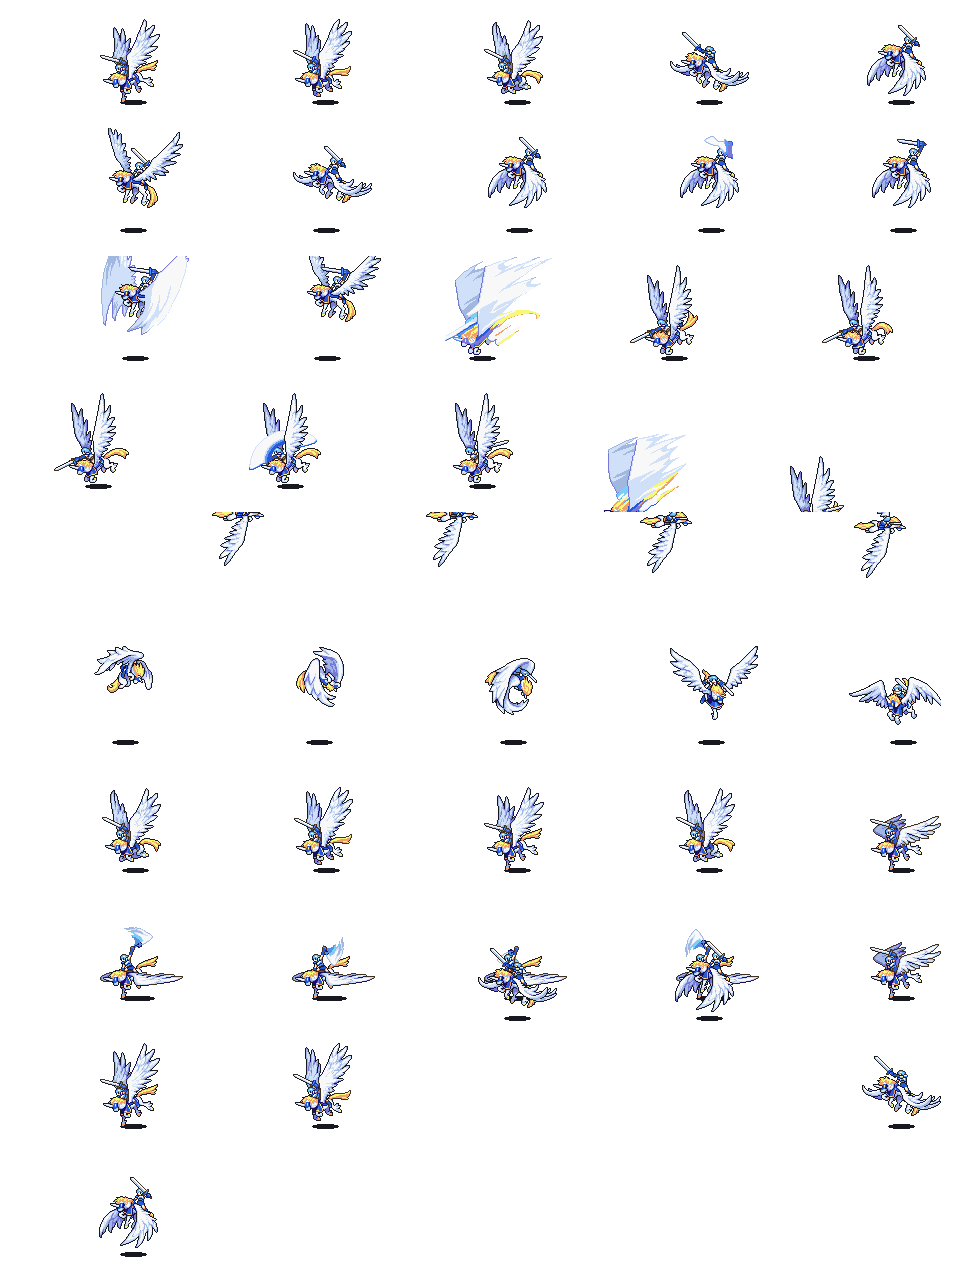
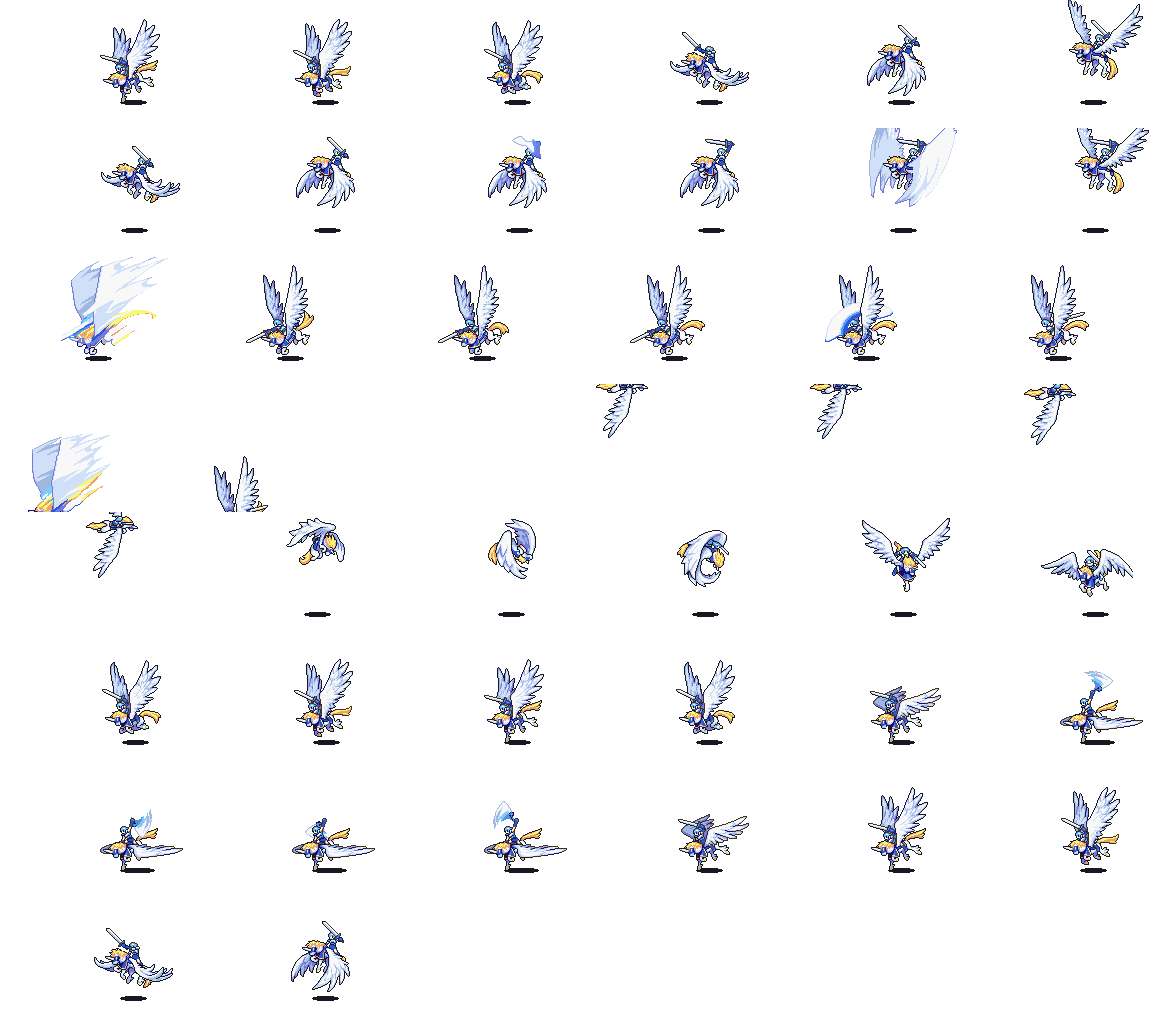
김경학 : 전투 애니메이션 추가

diff --git a/DirectX/GameEngineContents/BattleAnimationUnit.cpp b/DirectX/GameEngineContents/BattleAnimationUnit.cpp
@@ -117,7 +117,7 @@ void BattleAnimationUnit::Start()
 	EffectAnimation->SetAnimationStartEvent("Critical", 9, SetBright1);
 	EffectAnimation->SetAnimationStartEvent("Critical", 14, SetBright0);
 
-	EffectAnimation->CreateAnimation({ "Dodge", "Effect_Hit.png", 8, 8 });
+	EffectAnimation->CreateAnimation({ .AnimationName = "Dodge", .SpriteName = "Effect_Hit.png", .Start = 8, .End = 8, .FrameInter = 0.0f, });
 	EffectAnimation->SetAnimationStartEvent("Dodge", 8, std::bind(&BattleAnimationUnit::Dodge, this));
 
 	EffectAnimation->CreateAnimation({ .AnimationName = "FireHit", .SpriteName = "Effect_Fire.png", .Start = 0, .End = 19, .FrameInter = 0.05f, .Loop = false,});
@@ -205,7 +205,7 @@ std::shared_ptr<SpriteRenderer> BattleAnimationUnit::CreateAnimation(UnitIdentit
 		NewAnim->SetAnimationStartEvent("Attack", 4, std::bind(&BattleAnimationLevel::HitEvent, Level));
 		NewAnim->SetAnimationStartEvent("Attack", 17, std::bind(&BattleAnimationUnit::AttackEnd, this));
 		NewAnim->CreateAnimation({ .AnimationName = "Critical", .SpriteName = "Battle_SainLance.png", .Loop = false,
-			.FrameIndex = {17, 18, 19, 20, 21, 22, 23, 25, 26, 27, 28, 1, 2, 3, 4, 5, 6, 7, 8, 9, 10, 11, 12, 13, 14, 15, 16, 17},
+			.FrameIndex = {0, 18, 19, 20, 21, 22, 23, 25, 26, 27, 28, 1, 2, 3, 4, 5, 6, 7, 8, 9, 10, 11, 12, 13, 14, 15, 16, 17},
 			.FrameTime = {.05f, .05f, .05f, .05f, .05f, .05f, .05f, .05f, .15f, .04f, .2f, .08f, .08f, .08f, .04f, .6f, .04f, .08f, .08f, .08f, .08f, .08f, .08f, .08f, .08f, .08f, .08f, .08f,} });
 		NewAnim->SetAnimationStartEvent("Critical", 4, std::bind(&BattleAnimationLevel::HitEvent, Level));
 		NewAnim->SetAnimationStartEvent("Critical", 17, std::bind(&BattleAnimationUnit::AttackEnd, this));
@@ -226,7 +226,7 @@ std::shared_ptr<SpriteRenderer> BattleAnimationUnit::CreateAnimation(UnitIdentit
 		NewAnim->SetAnimationStartEvent("Attack", 4, std::bind(&BattleAnimationLevel::HitEvent, Level));
 		NewAnim->SetAnimationStartEvent("Attack", 17, std::bind(&BattleAnimationUnit::AttackEnd, this));
 		NewAnim->CreateAnimation({ .AnimationName = "Critical", .SpriteName = "Battle_SainSword.png", .Loop = false,
-			.FrameIndex = {17, 18, 19, 20, 21, 22, 23, 24, 25, 26, 27, 28, 29, 1, 2, 3, 4, 5, 6, 7, 8, 9, 10, 11, 12, 13, 14, 15, 16, 17},
+			.FrameIndex = {0, 18, 19, 20, 21, 22, 23, 24, 25, 26, 27, 28, 29, 1, 2, 3, 4, 5, 6, 7, 8, 9, 10, 11, 12, 13, 14, 15, 16, 17},
 			.FrameTime = {.05f, .05f, .05f, .05f, .05f, .05f, .05f, .05f, .05f, .05f, .15f, .04f, .2f, .08f, .08f, .08f, .04f, .6f, .04f, .08f, .08f, .08f, .08f, .08f, .08f, .08f, .08f, .08f, .08f, .08f,} });
 		NewAnim->SetAnimationStartEvent("Critical", 4, std::bind(&BattleAnimationLevel::HitEvent, Level));
 		NewAnim->SetAnimationStartEvent("Critical", 17, std::bind(&BattleAnimationUnit::AttackEnd, this));
@@ -247,7 +247,7 @@ std::shared_ptr<SpriteRenderer> BattleAnimationUnit::CreateAnimation(UnitIdentit
 		NewAnim->SetAnimationStartEvent("Hit", 4, std::bind(&BattleAnimationLevel::HitEvent, Level));
 		NewAnim->SetAnimationStartEvent("Hit", 17, std::bind(&BattleAnimationUnit::AttackEnd, this));
 		NewAnim->CreateAnimation({ .AnimationName = "Critical", .SpriteName = "Battle_KentLance.png", .Loop = false,
-			.FrameIndex = {17, 18, 19, 20, 21, 22, 23, 25, 26, 27, 28, 1, 2, 3, 4, 5, 6, 7, 8, 9, 10, 11, 12, 13, 14, 15, 16, 17},
+			.FrameIndex = {0, 18, 19, 20, 21, 22, 23, 25, 26, 27, 28, 1, 2, 3, 4, 5, 6, 7, 8, 9, 10, 11, 12, 13, 14, 15, 16, 17},
 			.FrameTime = {.05f, .05f, .05f, .05f, .05f, .05f, .05f, .05f, .15f, .04f, .2f, .08f, .08f, .08f, .04f, .6f, .04f, .08f, .08f, .08f, .08f, .08f, .08f, .08f, .08f, .08f, .08f, .08f,} });
 		NewAnim->SetAnimationStartEvent("Critical", 4, std::bind(&BattleAnimationLevel::HitEvent, Level));
 		NewAnim->SetAnimationStartEvent("Critical", 17, std::bind(&BattleAnimationUnit::AttackEnd, this));
@@ -268,7 +268,7 @@ std::shared_ptr<SpriteRenderer> BattleAnimationUnit::CreateAnimation(UnitIdentit
 		NewAnim->SetAnimationStartEvent("Attack", 4, std::bind(&BattleAnimationLevel::HitEvent, Level));
 		NewAnim->SetAnimationStartEvent("Attack", 17, std::bind(&BattleAnimationUnit::AttackEnd, this));
 		NewAnim->CreateAnimation({ .AnimationName = "Critical", .SpriteName = "Battle_KentSword.png", .Loop = false,
-			.FrameIndex = {17, 18, 19, 20, 21, 22, 23, 24, 25, 26, 27, 28, 29, 1, 2, 3, 4, 5, 6, 7, 8, 9, 10, 11, 12, 13, 14, 15, 16, 17},
+			.FrameIndex = {0, 18, 19, 20, 21, 22, 23, 24, 25, 26, 27, 28, 29, 1, 2, 3, 4, 5, 6, 7, 8, 9, 10, 11, 12, 13, 14, 15, 16, 17},
 			.FrameTime = {.05f, .05f, .05f, .05f, .05f, .05f, .05f, .05f, .05f, .05f, .15f, .04f, .2f, .08f, .08f, .08f, .04f, .6f, .04f, .08f, .08f, .08f, .08f, .08f, .08f, .08f, .08f, .08f, .08f, .08f,} });
 		NewAnim->SetAnimationStartEvent("Critical", 4, std::bind(&BattleAnimationLevel::HitEvent, Level));
 		NewAnim->SetAnimationStartEvent("Critical", 17, std::bind(&BattleAnimationUnit::AttackEnd, this));
@@ -278,6 +278,25 @@ std::shared_ptr<SpriteRenderer> BattleAnimationUnit::CreateAnimation(UnitIdentit
 		break;
 	}
 	case UnitIdentityCode::Florina:
+	{
+		if (nullptr == GameEngineSprite::Find("Battle_Florina.png"))
+		{
+			GameEngineSprite::LoadSheet(Dir.GetPlusFileName("Battle_Florina.png").GetFullPath(), 6, 8);
+		}
+		NewAnim->CreateAnimation({ "Idle", "Battle_Florina.png", 0, 0 });
+		NewAnim->CreateAnimation({ .AnimationName = "Attack", .SpriteName = "Battle_Florina.png", .Start = 0, .End = 32, .Loop = false,
+			.FrameTime = {.08f, .08f, .08f, .08f, .08f, .08f, .08f, .08f, .08f, .08f, .08f, .04f, .08f, .08f, .5f, .04f, .08f, .04f, .08f, .08f, .4f, .08f, .08f, .08f, .08f, .08f, .08f, .08f, .08f, .08f, .08f, .08f, .08f, } });
+		NewAnim->SetAnimationStartEvent("Attack", 12, std::bind(&BattleAnimationLevel::HitEvent, Level));
+		NewAnim->SetAnimationStartEvent("Attack", 32, std::bind(&BattleAnimationUnit::AttackEnd, this));
+		NewAnim->CreateAnimation({ .AnimationName = "Critical", .SpriteName = "Battle_Florina.png", .Loop = false,
+			.FrameIndex = {34,  35, 36, 37, 38, 35, 36, 37, 38, 0, 1, 2, 3, 4, 5, 6, 7, 8, 9, 10, 11, 12, 13, 14, 15, 16, 17, 18, 19, 20, 21, 22, 23, 24, 25, 26, 27, 28, 29, 30, 31, 32}
+			, .FrameTime = {.08f, .06f, .06f, .06f, .06f, .06f, .06f, .06f, .06f, .08f, .08f, .08f, .08f, .08f, .08f, .08f, .08f, .08f, .08f, .08f, .04f, .08f, .08f, .5f, .04f, .08f, .04f, .08f, .08f, .4f, .08f, .08f, .08f, .08f, .08f, .08f, .08f, .08f, .08f, .08f, .08f, .08f, } });
+		NewAnim->SetAnimationStartEvent("Critical", 12, std::bind(&BattleAnimationLevel::HitEvent, Level));
+		NewAnim->SetAnimationStartEvent("Critical", 32, std::bind(&BattleAnimationUnit::AttackEnd, this));
+
+		NewAnim->CreateAnimation({ .AnimationName = "Dodge", .SpriteName = "Battle_Florina.png", .Loop = false, .FrameIndex = {41, 42, 43, 42, 41, 0}, .FrameTime = {.05f, .05f, .6f, .05f, .05f, 1.0f} });
+		break;
+	}
 	case UnitIdentityCode::Wil:
 	case UnitIdentityCode::Dorcas:
 	case UnitIdentityCode::WarriorDorcas:
@@ -366,6 +385,28 @@ std::shared_ptr<SpriteRenderer> BattleAnimationUnit::CreateAnimation(UnitIdentit
 		break;
 	}
 	case UnitIdentityCode::Knight:
+	{
+		if (nullptr == GameEngineSprite::Find("Battle_EnemyKnight.png"))
+		{
+			GameEngineSprite::LoadSheet(Dir.GetPlusFileName("Battle_EnemyKnight.png").GetFullPath(), 5, 5);
+		}
+		NewAnim->CreateAnimation({ "Idle", "Battle_EnemyKnight.png", 0, 0 });
+
+		NewAnim->CreateAnimation({ .AnimationName = "Attack", .SpriteName = "Battle_EnemyKnight.png", .Loop = false,
+			.FrameIndex = {0, 1, 2, 3, 4, 5, 6, 7, 13, 14, 15, 16, 17, 18, 19, 20, 21, 22, 23, 24},
+			.FrameTime = { .08f, .08f, .08f, .08f, .08f, .08f, .08f, .6f, .08f, .08f, .08f, .08f, .08f, .08f, .08f, .08f, .08f, .08f, .08f, .08f} });
+		NewAnim->SetAnimationStartEvent("Attack", 6, std::bind(&BattleAnimationLevel::HitEvent, Level));
+		NewAnim->SetAnimationStartEvent("Attack", 24, std::bind(&BattleAnimationUnit::AttackEnd, this));
+
+		NewAnim->CreateAnimation({ .AnimationName = "Critical", .SpriteName = "Battle_EnemyKnight.png", .Loop = false,
+			.FrameIndex = {0, 1, 2, 3, 4, 5, 6, 7, 13, 14, 15, 16, 17, 18, 19, 20, 21, 22, 23, 24},
+			.FrameTime = { .08f, .08f, .08f, .08f, .08f, .08f, .08f, .6f, .08f, .08f, .08f, .08f, .08f, .08f, .08f, .08f, .08f, .08f, .08f, .08f} });
+		NewAnim->SetAnimationStartEvent("Critical", 6, std::bind(&BattleAnimationLevel::HitEvent, Level));
+		NewAnim->SetAnimationStartEvent("Critical", 24, std::bind(&BattleAnimationUnit::AttackEnd, this));
+
+		NewAnim->CreateAnimation({ .AnimationName = "Dodge", .SpriteName = "Battle_EnemyKnight.png", .Loop = false, .FrameIndex = {1, 0}, .FrameTime = {.68f, 1.0f} });
+		break;
+	}
 	case UnitIdentityCode::Mage:
 	{
 		if (nullptr == GameEngineSprite::Find("Battle_EnemyMage.png"))
@@ -385,7 +426,7 @@ std::shared_ptr<SpriteRenderer> BattleAnimationUnit::CreateAnimation(UnitIdentit
 		NewAnim->SetAnimationStartEvent("Critical", 9, std::bind(&BattleAnimationLevel::HitEvent, Level));
 		NewAnim->SetAnimationStartEvent("Critical", 11, std::bind(&BattleAnimationUnit::AttackLoop, this, 0.8f));
 
-		NewAnim->CreateAnimation({ .AnimationName = "Dodge", .SpriteName = "Battle_EnemyMage.png", .Loop = false, .FrameIndex = {33, 34, 33, 0}, .FrameTime = {.04f, .6f, .04f, 1.0f} });
+		NewAnim->CreateAnimation({ .AnimationName = "Dodge", .SpriteName = "Battle_EnemyMage.png", .Loop = false, .FrameIndex = {37, 38, 37, 0}, .FrameTime = {.04f, .6f, .04f, 1.0f} });
 		break;
 	}
 	

diff --git a/DirectX/GameEngineContents/BattleLevel.cpp b/DirectX/GameEngineContents/BattleLevel.cpp
@@ -73,14 +73,17 @@ void BattleLevel::Start()
 	//PlayerUnits.push_back(NewActor);
 
 	std::shared_ptr<BattleUnit> NewActor = CreateActor<BattleUnit>();
-	NewActor->SetUnitCode(UnitIdentityCode::Lyn);
+	NewActor->SetUnitCode(UnitIdentityCode::Florina);
+	NewActor->GetUnitData().LevelUp(99);
 	NewActor->SetMapPos({ 4, 5 });
-	NewActor->NewItem(ItemCode::IronSword);
+	NewActor->NewItem(ItemCode::KillingSword);
+	NewActor->NewItem(ItemCode::KillerLance);
 	NewActor->SetTerrain(MainMap->TerrainData[NewActor->GetMapPos().y][NewActor->GetMapPos().x]);
 	PlayerUnits.push_back(NewActor);
 
 	NewActor = CreateActor<BattleUnit>();
 	NewActor->SetUnitCode(UnitIdentityCode::Sain);
+	NewActor->GetUnitData().LevelUp(999);
 	NewActor->SetMapPos({ 4, 4 });
 	NewActor->NewItem(ItemCode::IronSword);
 	NewActor->NewItem(ItemCode::IronLance);
@@ -117,13 +120,20 @@ void BattleLevel::Start()
 	//EnemyUnits.push_back(NewActor);
 
 	NewActor = CreateActor<BattleUnit>();
-	NewActor->SetUnitCode(UnitIdentityCode::Mage);
-	NewActor->NewItem(ItemCode::Fire);
-	NewActor->GetUnitData().LevelUp(999);
+	NewActor->SetUnitCode(UnitIdentityCode::Knight);
+	NewActor->NewItem(ItemCode::IronLance);
+	//NewActor->GetUnitData().LevelUp(999);
 	NewActor->SetMapPos({ 6, 6 });
 	NewActor->SetTerrain(MainMap->TerrainData[NewActor->GetMapPos().y][NewActor->GetMapPos().x]);
 	EnemyUnits.push_back(NewActor);
 
+	NewActor = CreateActor<BattleUnit>();
+	NewActor->SetUnitCode(UnitIdentityCode::Knight);
+	NewActor->NewItem(ItemCode::IronLance);
+	//NewActor->GetUnitData().LevelUp(999);
+	NewActor->SetMapPos({ 5, 4 });
+	NewActor->SetTerrain(MainMap->TerrainData[NewActor->GetMapPos().y][NewActor->GetMapPos().x]);
+	EnemyUnits.push_back(NewActor);
 	
 	IsMove.resize(MainMap->MapScaleInt2.y);
 	for (int i = 0; i < IsMove.size(); i++)

diff --git a/DirectX/GameEngineCore/GameEngineLevel.h b/DirectX/GameEngineCore/GameEngineLevel.h
@@ -29,11 +29,16 @@ public:
 	GameEngineLevel& operator=(GameEngineLevel&& _Other) noexcept = delete;
 
 	template<typename ActorType>
-	std::shared_ptr<ActorType> CreateActor(const std::string_view& _Name)
+	std::shared_ptr<ActorType> CreateActorToName(const std::string_view& _Name = "")
 	{
 		return CreateActor<ActorType>(0, _Name);
 	}
 
+	template<typename ActorType, typename EnumType>
+	std::shared_ptr<ActorType> CreateActor(EnumType  _Order, const std::string_view& _Name = "")
+	{
+		return CreateActor<ActorType>(static_cast<int>(_Order), _Name);
+	}
 
 	template<typename ActorType >
 	std::shared_ptr<ActorType> CreateActor(int _Order = 0, const std::string_view& _Name = "")
